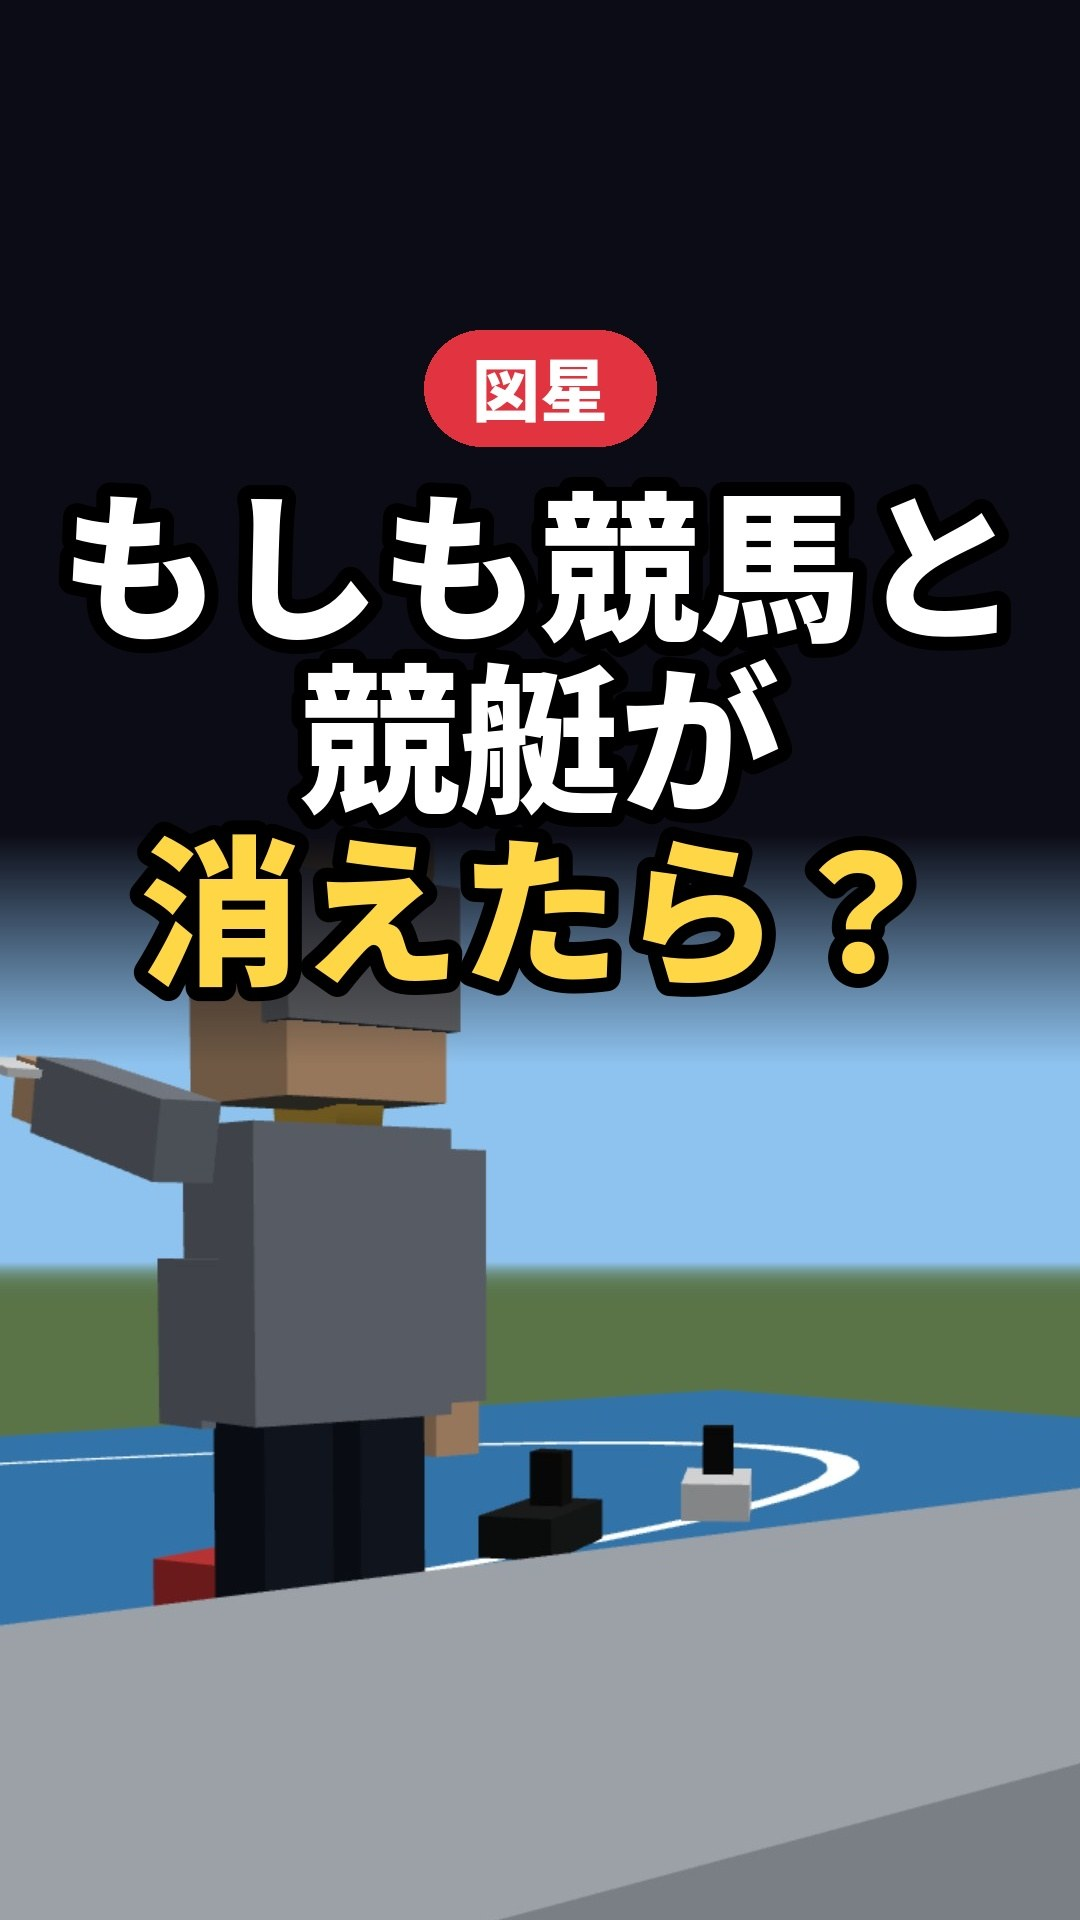
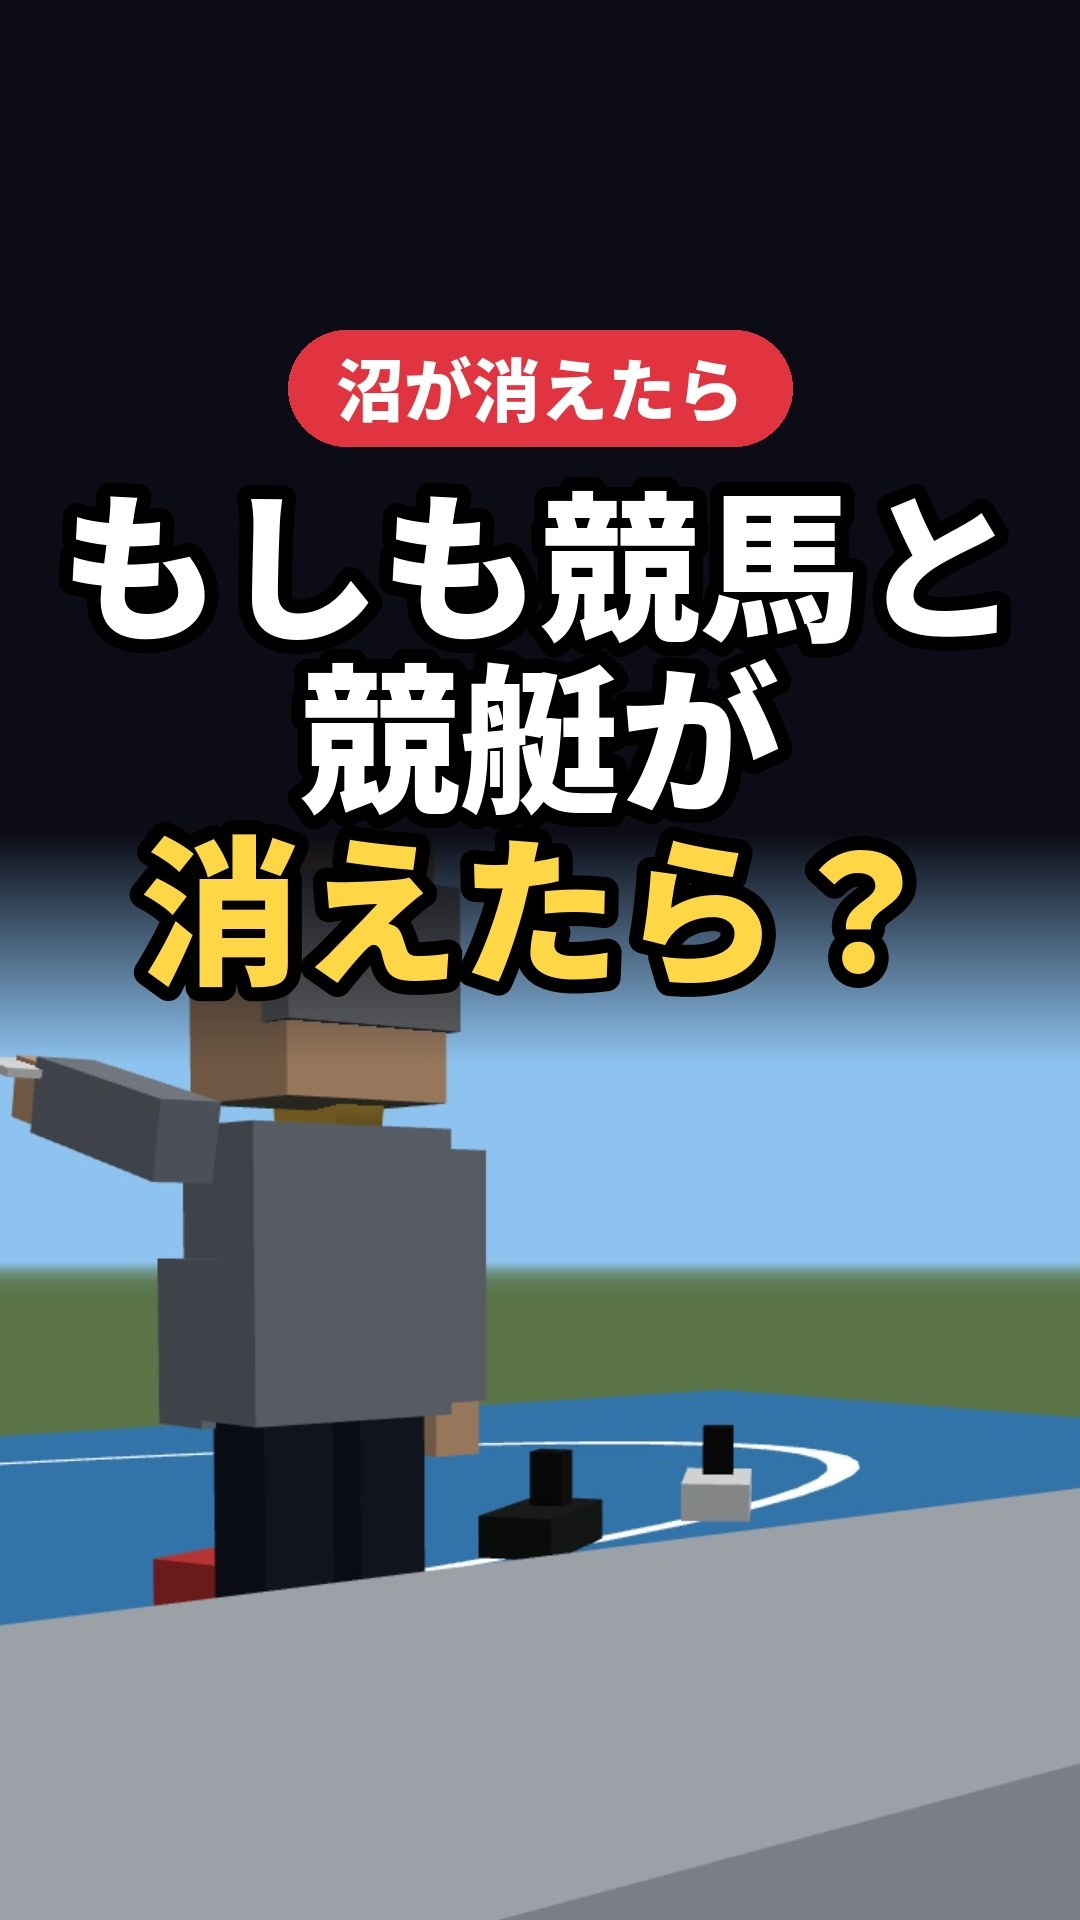
図星を 沼が消えたら・男と女のもしも・大人の本音 に分けてカバーを作り直し
Claude-Session: https://claude.ai/code/session_01J8bJr5WvpGftCfMjZxY5Pj

Changed region(s): [[0.2444, 0.1562, 0.7333, 0.25]]

diff --git a/tools/make_covers.py b/tools/make_covers.py
@@ -4,7 +4,7 @@ import json,glob,os,re
 from PIL import Image, ImageDraw, ImageFont
 F='/usr/share/fonts/opentype/noto/NotoSansCJK-Black.ttc'
 TT=json.load(open('plan/cover-lines.json'))
-COL={'図星':(226,52,64),'人体の限界':(52,128,230),'絶滅ボタン':(46,170,90),'お財布のもしも':(222,168,30),'ヤバい順':(140,80,220),'全員で同時に':(240,120,40),'社会の消えたら':(214,70,170),'もしもラボ':(40,190,170)}
+COL={'図星':(226,52,64),'沼が消えたら':(226,52,64),'男と女のもしも':(250,110,160),'大人の本音':(150,100,60),'人体の限界':(52,128,230),'絶滅ボタン':(46,170,90),'お財布のもしも':(222,168,30),'ヤバい順':(140,80,220),'全員で同時に':(240,120,40),'社会の消えたら':(214,70,170),'もしもラボ':(40,190,170)}
 P={}
 for v in '0730 0531 0271 0612 0613 0295 0614 0611 0733 0735 0037'.split(): P[v]='人体の限界'
 for v in '0701 0704 0102 0439 0620'.split(): P[v]='絶滅ボタン'
@@ -26,7 +26,12 @@ P['0035']='ヤバい順'; P['0721']='ヤバい順'; P['0626']=P['0627']='図星'
 for v in '0533 0036 0604'.split(): P[v]='もしもラボ'
 T10=dict(x.split(':') for x in '0532:036 0533:026 0534:006 0024:046 0036:036 0467:006 0016:026 0010:016 0604:016 0275:006 0028:016 0013:006 0603:016 0012:026 0033:036 0022:006 0602:006 0501:006 0006:054 0601:036 0027:054 0005:046 0032:046 0031:046 0021:006 0004:006 0007:006 0003:006 0035:006 0002:026 0025:046 0001:006 0034:036'.split())
 for v,t in T10.items(): PICK[v]=f'out/cover10/{v}/*t{t}*'
-SER={'図星':'図星','人体の限界':'人体の限界','絶滅ボタン':'絶滅ボタン','お財布のもしも':'お財布のもしも','ヤバい順':'ヤバい順','全員で同時に':'全員で同時に','社会の消えたら':'社会の消えたら'}
+
+# 2026/11/03 ゆうと：図星が一覧に並びすぎるので3つに分ける（沼が消えたら＝赤・男と女のもしも＝ピンク・大人の本音＝茶）
+for v in '0623 0624 0625 0626 0627'.split(): P[v]='沼が消えたら'
+for v in '0628 0629 0630 0631 0632 0634 0635 0641 0642'.split(): P[v]='男と女のもしも'
+for v in '0633 0636 0639'.split(): P[v]='大人の本音'
+SER={'沼が消えたら':'沼が消えたら','男と女のもしも':'男と女のもしも','大人の本音':'大人の本音','図星':'図星','人体の限界':'人体の限界','絶滅ボタン':'絶滅ボタン','お財布のもしも':'お財布のもしも','ヤバい順':'ヤバい順','全員で同時に':'全員で同時に','社会の消えたら':'社会の消えたら'}
 def pillar(v):
   if v in P: return P[v]
   try:

diff --git a/plan/STRATEGY.md b/plan/STRATEGY.md
@@ -56,6 +56,9 @@
 |---|---|---|---|
 | 社会の消えたら | 日本の社会から○○（業界・人・国・制度）が消えたら。皮肉で攻め切り、困る人の様子まで描く。筋は現実に納得できるものにする | 北朝鮮・オトナのお店・女性（TikTok 10秒継続率40〜45%） | TikTok（一番お金になる） |
 | 図星 | 皮肉の社会ネタ。世の中の建前を もしも で裏返して、見た人が図星を突かれる回（男叩き・女叩きは均等）。2026/11/03 ゆうと決定 | オトナのお店・北朝鮮 | 両方 |
+| 沼が消えたら（図星の1） | 図星のうち、ハマる人がいる遊び・夜の店・推しなど（沼）が消えたら。2026/11/03 ゆうと：図星を3つに分ける | オトナのお店・パチンコ・推し・競馬・キャバクラ | TikTok |
+| 男と女のもしも（図星の2） | 図星のうち、男女の建前を裏返す回（男叩き・女叩きは均等） | 年下・年収条件・給料逆転・生理・育休 | 両方 |
+| 大人の本音（図星の3） | 図星のうち、職場・世代・見栄など大人の建前を裏返す回 | 昭和の家族・SNS加工・店員の出禁 | 両方 |
 | 絶滅ボタン | 嫌われ者（虫・害獣・花粉など）がこの世から消えたら。赤い絶滅ボタンを押す演出で統一 | 蚊・ゴキブリ | 両方 |
 | 人体の限界 | 寝ない・極端な生活・運動を続けたら体はどうなるか（30日続けたら の型を含む） | 72時間・30分睡眠・腕立て100回30日（派生の腹筋・ランがインスタ72時間で中央値以上。2026/11/2 の月曜見直しで柱に入れた） | インスタ |
 | 全員で同時に | 日本人（全人類）が同時に○○したら | ジャンプ | TikTok |
@@ -126,4 +129,4 @@ plan/RULES.md の避けるものに加えて：実在の人物・ネットミー
 
 
 ## カバー（表紙）の柱の色（2026/11/03 決定）
-カバーの文字は動画タイトルそのもの（もしも〇〇たら？）を白と黄色・黒の縁取りで入れる。上の札は柱の名前にして、色だけ柱で分ける：図星＝赤、人体の限界＝青、絶滅ボタン＝緑、お財布のもしも＝金、社会の消えたら＝マゼンタ、全員で同時に＝橙、ヤバい順＝紫、それ以外＝ミント（札の文字は もしもラボ）。カバーは 1080×1920 で、TikTok の予約のときにカバーをアップロードで付ける。
+カバーの文字は動画タイトルそのもの（もしも〇〇たら？）を白と黄色・黒の縁取りで入れる。上の札は柱の名前にして、色だけ柱で分ける：図星＝赤（2026/11/03〜図星は 沼が消えたら＝赤・男と女のもしも＝ピンク・大人の本音＝茶 に分ける。これからの回の series もこの3つのどれかにする）、人体の限界＝青、絶滅ボタン＝緑、お財布のもしも＝金、社会の消えたら＝マゼンタ、全員で同時に＝橙、ヤバい順＝紫、それ以外＝ミント（札の文字は もしもラボ）。カバーは 1080×1920 で、TikTok の予約のときにカバーをアップロードで付ける。
